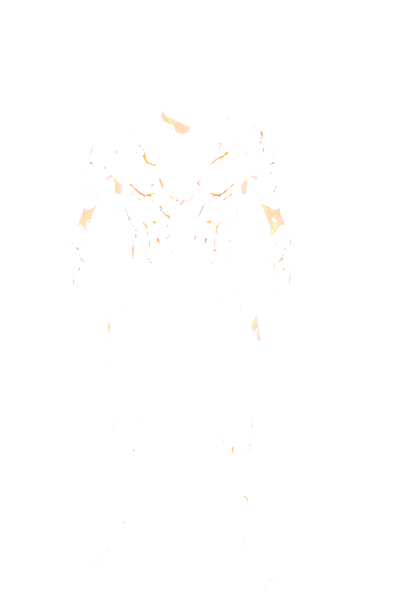
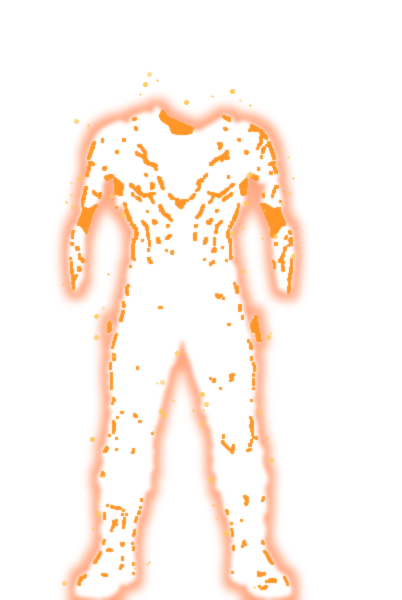
Make ember suit aura visible

diff --git a/src/components/FallenCanvas/drawCharacter.ts b/src/components/FallenCanvas/drawCharacter.ts
@@ -61,9 +61,13 @@ export const drawCharacter = (
           const reduced = typeof window !== 'undefined' && window.matchMedia?.('(prefers-reduced-motion: reduce)').matches;
           const pulse = reduced ? 0.35 : (Math.sin(performance.now() / 270) + 1) / 2;
           ctx.save();
-          if (layerId === 'suit_fire_glow') ctx.globalAlpha = reduced ? .7 : .55 + pulse * .45;
+          if (layerId === 'suit_fire_glow') {
+            // Additive blending makes the ember aura read as light, not paint.
+            ctx.globalCompositeOperation = 'lighter';
+            ctx.globalAlpha = reduced ? .8 : .7 + pulse * .3;
+            ctx.shadowBlur = 8 + pulse * 14;
+          } else ctx.shadowBlur = 5 + pulse * 16;
           ctx.shadowColor = EFFECT_COLORS[effect];
-          ctx.shadowBlur = 5 + pulse * 16;
           drawLayer();
           ctx.restore();
         } else {

diff --git a/src/components/ClothingLayers.scss b/src/components/ClothingLayers.scss
@@ -6,5 +6,5 @@
 @media (prefers-reduced-motion: reduce) { .animated-clothing { animation: none; filter: drop-shadow(0 0 3px var(--clothing-glow)); } }
 
 .animated-embers { animation: suit-embers 1.3s ease-in-out infinite alternate; }
-@keyframes suit-embers { from { opacity: .5; filter: drop-shadow(0 0 1px #ff4d00); } to { opacity: 1; filter: drop-shadow(0 0 6px #ff7800) brightness(1.4); } }
-@media (prefers-reduced-motion: reduce) { .animated-embers { animation: none; opacity: .7; filter: drop-shadow(0 0 2px #ff7800); } }
+@keyframes suit-embers { from { opacity: .75; filter: drop-shadow(0 0 6px #ff6423); } to { opacity: 1; filter: drop-shadow(0 0 14px #ff7800) drop-shadow(0 0 6px #ffb14d) brightness(1.25); } }
+@media (prefers-reduced-motion: reduce) { .animated-embers { animation: none; opacity: .85; filter: drop-shadow(0 0 6px #ff7800); } }
